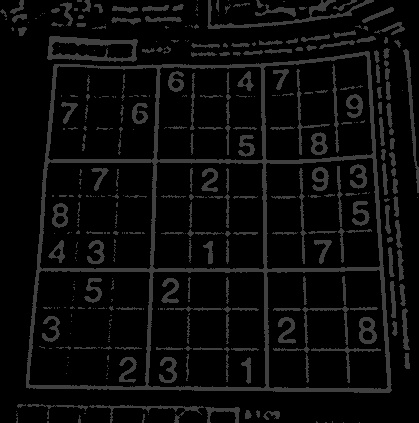
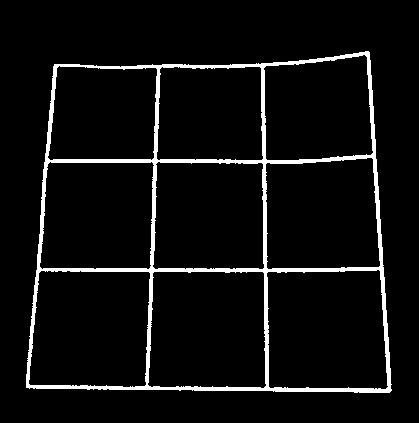
grabber

Changed region(s): [[0.031, 0.0, 1.0, 1.0], [0.0, 0.0, 0.0621, 0.0922]]

diff --git a/grabber.py b/grabber.py
@@ -1,0 +1,198 @@
+'''
+Sudoku Grabber
+Datas are stored in ./data directory as a naive solution
+TODO: Modulize the core with SWIG to optimize this
+'''
+
+
+import cv2 as cv
+import numpy as np
+
+
+# Preprocess the image
+def preprocess(img):
+    img = cv.GaussianBlur(img, (11, 11), 0)
+    mask = cv.adaptiveThreshold(img, 255, cv.ADAPTIVE_THRESH_MEAN_C, cv.THRESH_BINARY, 5, 2)
+    mask_inv = cv.bitwise_not(mask)
+    kernel = np.array([[0, 1, 0], [1, 1, 1], [0, 1, 0]], np.uint8)
+    mask_inv = cv.dilate(mask_inv, kernel, iterations=1)
+    
+    return mask_inv
+
+
+# Detecting blobs manually
+# Assume the puzzle is the biggest one in the picture
+def detect_blobs(mask_inv):
+    h, w = mask_inv.shape[:2]
+    max_area = -1
+    max_pt = (-1, -1)
+    ffill_mask = np.zeros((h+2, w+2), np.uint8)
+
+    # Mark blobs with gray
+    for i in range(h):
+        for j in range(w):
+            if mask_inv[i, j] >= 128:
+                area, _, _, _ = cv.floodFill(mask_inv, ffill_mask, (j, i), 64) # seed point follows format (x, y)
+                if area > max_area:
+                    max_pt = (j, i)
+                    max_area = area
+
+    # FloodFill the biggest blob with white
+    ffill_mask[:] = 0 # reset mask
+    cv.floodFill(mask_inv, ffill_mask, max_pt, 255, 20, 20)
+
+    # FloodFill other blobs with black
+    for i in range(h):
+        for j in range(w):
+            if mask_inv[i, j] == 64 and (j, i) != max_pt:
+                ffill_mask[:] = 0
+                cv.floodFill(mask_inv, ffill_mask, (j, i), 0)
+
+    # Offset dilation
+    kernel = np.array([[0, 1, 0], [1, 1, 1], [0, 1, 0]], np.uint8)
+    mask_inv = cv.erode(mask_inv, kernel, iterations=1)
+
+    return mask_inv
+
+
+# For debug
+def plot_lines(lines, blob):
+    for line in lines:
+        for rho, theta in line:
+            a = np.cos(theta)
+            b = np.sin(theta)
+            x0 = a*rho
+            y0 = b*rho
+            x1 = int(x0 + 1000*(-b))
+            y1 = int(y0 + 1000*(a))
+            x2 = int(x0 - 1000*(-b))
+            y2 = int(y0 - 1000*(a))
+            cv.line(blob, (x1, y1), (x2, y2), 128, 1) # polluted blob
+    cv.imwrite("./pic/lines.jpg", blob)
+
+
+def detect_lines(blob):
+    lines = cv.HoughLines(blob, 1, np.pi/180, 200)
+
+    # plot_lines(lines, blob)
+
+    # Normalize lines
+    # Abandoned because of the discontinuity of polar c.s. in a certain interval
+    # for line in lines:
+    #     for rho, theta in line:
+    #         if rho < 0:
+    #             rho, theta = -rho, theta + np.pi
+    #         while theta > np.pi * 2:
+    #             theta -= np.pi * 2
+    #         while theta < 0:
+    #             theta += np.pi * 2
+
+    return lines
+
+
+# Detect if deg is in the range regradless of the period
+def inrange(deg, tar, ld=10, ud=10):
+    if  tar - deg > 0:
+        while deg > tar + ud:
+            deg -= np.pi * 2
+    else:
+        while deg < tar - ld:
+            deg += np.pi * 2
+
+    if tar - ld <= deg <= tar + ld:
+        return True
+    else:
+        return False
+
+
+def merge_lines(lines, shape):
+    h, w = shape
+    for line in lines:
+        rho, theta = line[0] # unwrap
+        if (rho, theta) == (0, -100):
+            continue
+
+        # Find two points, assume a good position
+        pt1, pt2 = (0, 0), (0, 0) # (x, y) format
+        if inrange(theta, np.pi * 90 / 180, 45, 45):
+            pt1 = (0, rho / np.sin(theta))
+            pt2 = (w, rho / np.sin(theta) - w / np.tan(theta))
+        else:
+            pt1 = (rho / np.cos(theta), 0)
+            pt2 = (rho / np.cos(theta) - h * np.tan(theta), h)
+        
+        for cur in lines:
+            cur_rho, cur_theta = cur[0]
+            if (rho, theta) == (cur_rho, cur_theta):
+                continue
+            if abs(abs(cur_rho) - abs(rho)) < 20 and inrange(theta, cur_theta):
+                # Find two points again
+                cur_pt1, cur_pt2 = (0, 0), (0, 0)
+                if inrange(cur_theta, np.pi * 90 / 180, 45, 45):
+                    cur_pt1 = (0, cur_rho / np.sin(cur_theta))
+                    cur_pt2 = (w, cur_rho / np.sin(cur_theta) - w / np.tan(cur_theta))
+                else:
+                    cur_pt1 = (cur_rho / np.cos(cur_theta), 0)
+                    cur_pt2 = (cur_rho / np.cos(cur_theta) - h * np.tan(cur_theta), h)
+                
+                # Fuse lines
+                x1, y1 = cur_pt1
+                x2, y2 = cur_pt2
+                x3, y3 = pt1
+                x4, y4 = pt2
+                if (x1-x3)**2 + (y1-y3)**2 < 64**2 and (x2-x4)**2 + (y2-y4)**2 < 64**2:
+                    line[0] = [(rho + cur_rho) / 2, (theta + cur_theta) / 2]
+                    cur[0] = [0, -100] # destroyed lines
+
+    return lines
+
+
+def find_intersections(l1, l2):
+    pass
+
+
+def find_edges(lines):
+    inf = 100000
+    top_edge, bottem_edge, left_edge, right_edge = (inf, 0), (-inf, 0), (inf, 0), (-inf, 0)
+
+    # Find edges
+    for line in lines:
+        rho, theta = line[0]
+        if (rho, theta) == (0, -100):
+            continue
+        # x_intercept = rho / np.cos(theta)
+        # y_intercept = rho / np.sin(theta)
+        # Vertical lines
+        if  inrange(theta, np.pi * 90 / 180):
+            if rho < top_edge[0]:
+                top_edge = (rho, theta)
+            elif rho > bottem_edge[0]:
+                bottem_edge = (rho, theta)
+        # Horizontal lines
+        elif inrange(theta, 0) or inrange(theta, np.pi):
+            if rho < left_edge[0]:
+                left_edge = (rho, theta)
+            elif rho > right_edge[0]:
+                right_edge = (rho, theta)
+    
+    # Find intersections
+    tl = find_intersections(top_edge, left_edge)
+    tr = find_intersections(top_edge, right_edge)
+    bl = find_intersections(bottem_edge, left_edge)
+    br = find_intersections(bottem_edge, right_edge)
+
+
+
+if __name__ == "__main__":
+    # Read the image
+    img = cv.imread("./pic/sudoku.jpg", 0) # gray scale mode
+    # mask = cv.normalize(img, None, 0, 255, cv.NORM_MINMAX, cv.CV_8UC1)
+
+    mask_inv = preprocess(img)
+    # cv.imwrite("./pic/mask_inv.jpg", mask_inv)
+
+    biggest_blob = detect_blobs(mask_inv)
+    # cv.imwrite("./pic/biggest_blob.jpg", biggest_blob)
+
+    lines = merge_lines(detect_lines(biggest_blob), biggest_blob.shape[:2])
+    edges = find_edges(lines)

diff --git a/pic/reader.py b/pic/reader.py
@@ -1,0 +1,8 @@
+from matplotlib import pyplot as plt
+import cv2 as cv
+import sys
+
+img = cv.imread(sys.argv[1], 0)
+
+plt.imshow(img)
+plt.show()
